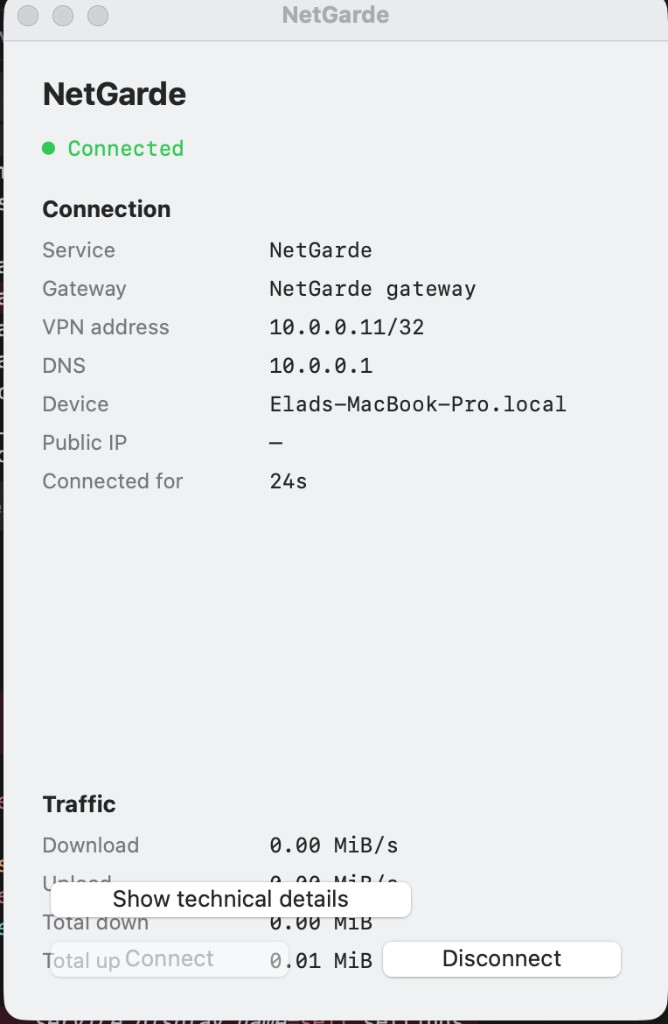
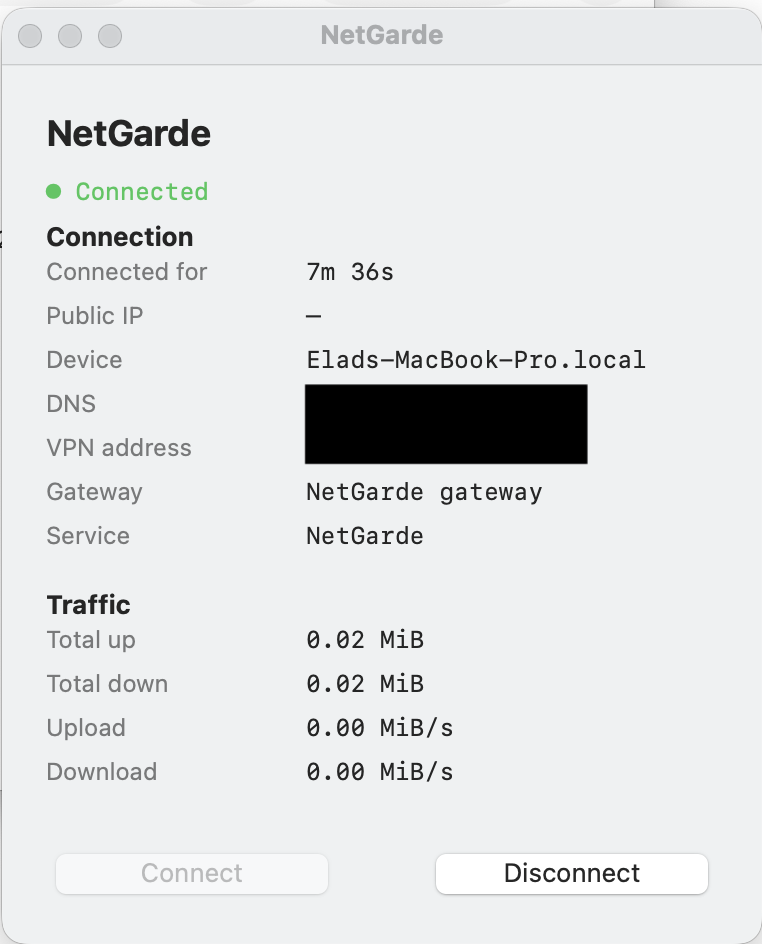
Rewrite README as portfolio presentation for job reviewers.
Add secure connect flow with Mermaid diagram; update redacted screenshot.

diff --git a/README.md b/README.md
@@ -1,173 +1,127 @@
-# NetGardeClient
+<p align="center">
+  <strong>NetGardeClient</strong><br/>
+  macOS WireGuard client &amp; menu bar app for the NetGarde zero-trust platform
+</p>
 
-**macOS WireGuard VPN client** for the [NetGarde](https://github.com/NetGarde) platform — API enrollment, TUN tunnel, DNS routing, usage reporting, and a menu bar app.
-
-**Organization:** [github.com/NetGarde](https://github.com/NetGarde) · **Platform:** [NetGarde](https://github.com/NetGarde/NetGarde) · **Client:** [NetGardeClient](https://github.com/NetGarde/NetGardeClient)
-
----
-
-## Overview
-
-NetGardeClient connects enrolled devices to the NetGarde control plane over **WireGuard**. It handles device identity at enroll time, applies server-assigned DNS policy routing, and reports tunnel usage back to the platform API.
-
-The macOS build ships as **`NetGarde.app`** — a menu bar app with connect/disconnect, live traffic stats, and a connection details panel. A cross-platform **CLI** (`netgarde-wg`) is also available for Linux and Windows.
-
-**Production API (default):** `http://44.218.45.174:8000` — same backend as the NetGarde dashboard. Override with `--api-url`, `NETGARDE_API_URL`, or GUI settings.
+<p align="center">
+  <a href="https://github.com/NetGarde">Organization</a> ·
+  <a href="https://github.com/NetGarde/NetGarde">Platform</a> ·
+  <a href="https://github.com/NetGarde/NetGardeClient">Client</a>
+</p>
 
 ---
 
-## Features
+## About
 
-| Capability | Implementation |
-|------------|----------------|
-| Secure enroll | `POST /v1/enroll` with device identity + WireGuard key exchange |
-| Tunnel | `wireguard-go` (macOS/Windows) or kernel WireGuard (Linux) |
-| DNS policy | Applies WireGuard DNS from server config (macOS system DNS) |
-| Usage reporting | Periodic `POST /v1/usage` for live dashboard charts |
-| macOS GUI | Menu bar app (PyInstaller), shield status icons, connection panel |
-| Offline mode | Manual `.conf` file without API enroll |
+**NetGardeClient** is the device-side companion to [NetGarde](https://github.com/NetGarde/NetGarde) — a self-hosted network security platform I built end to end (control plane, dashboard, policy engine, and AWS deployment).
+
+This repo is the **secure access layer**: enroll a device, establish a WireGuard tunnel, route DNS through the platform gateway, and report live usage back to the admin dashboard.
+
+**Deliverables**
+
+- **`NetGarde.app`** — native macOS menu bar application  
+- **`netgarde-wg`** — cross-platform CLI for Linux and Windows  
+- **Packaged build pipeline** — PyInstaller bundle + GitHub Actions  
 
 ---
 
 ## Screenshots
 
-> Replace `docs/images/connection-panel-connected.png` with a redacted copy (blur VPN/DNS IPs) before publishing if needed. See [docs/images/README.md](docs/images/README.md).
+<p align="center">
+  <img src="docs/images/connection-panel-connected.png" alt="NetGarde connection panel — connected state with live traffic" width="420" />
+</p>
 
-### macOS connection panel
-
-![Connected — live stats, VPN details, and disconnect](docs/images/connection-panel-connected.png)
-
----
-
-## Requirements
-
-- Python 3.9+
-- macOS, Linux, or Windows
-- Elevated privileges (`sudo` on macOS/Linux; Administrator on Windows)
-- Tunnel backend: `wireguard-go` on macOS/Windows, or `wg` + kernel WireGuard on Linux
+<p align="center"><em>Connection panel — status, session details, live traffic, connect / disconnect</em></p>
 
 ---
 
-## Quick start
+## What this project shows
 
-```bash
-git clone https://github.com/NetGarde/NetGardeClient.git
-cd NetGardeClient
-make install
-source .venv/bin/activate
-```
-
-**CLI enroll (production server):**
-
-```bash
-sudo netgarde-wg
-# with enroll bootstrap token (if ENROLL_BOOTSTRAP_TOKEN is set on the server):
-sudo netgarde-wg --api-token YOUR_TOKEN
-```
+| | |
+|---|---|
+| **Network security** | WireGuard VPN, device enrollment, DNS policy path through the gateway |
+| **Systems engineering** | TUN interfaces, routing, privileged macOS DNS and tunnel lifecycle |
+| **Product engineering** | Menu bar UX, connection panel, session handling, orphan cleanup |
+| **Full-stack integration** | Client ↔ control plane ↔ live dashboard telemetry |
+| **Shipping software** | PyInstaller macOS app, CI build, installable `.app` bundle |
 
 ---
 
-## macOS app
+## How secure connect works
 
-Build **`NetGarde.app`** (menu bar, production API built-in):
+When the user clicks **Connect**, the client runs a zero-trust enrollment flow — no pre-shared WireGuard config file required.
 
-```bash
-make build-mac
-open dist/NetGarde.app
+**1. Device identity & keys**  
+The client generates a **WireGuard key pair**. The **private key never leaves the device**. Only the **public key** is sent to the platform, together with a stable device identity (hostname, hardware id).
+
+**2. Enrollment**  
+The control plane validates the request, registers the device, assigns a VPN address from its pool, and tells the gateway to accept this peer.
+
+**3. Tunnel configuration**  
+The server returns everything the client needs: server public key, tunnel address, DNS gateway, and routing rules. The client builds the WireGuard session locally.
+
+**4. Connect**  
+The tunnel comes up (TUN interface + routes). DNS is pointed at the platform gateway so **policy applies to all lookups** — not just browser traffic.
+
+**5. Live visibility**  
+While connected, the client reports tunnel usage to the dashboard so operators see **live bandwidth** per device.
+
+```mermaid
+sequenceDiagram
+    autonumber
+    actor User
+    participant Client as NetGardeClient
+    participant API as Control plane
+    participant GW as WireGuard gateway
+    participant Dash as Dashboard
+
+    User->>Client: Connect
+    Client->>Client: Generate key pair (private key stays local)
+    Client->>API: Enroll device identity + public key
+    API->>API: Register device, assign VPN address
+    API->>GW: Authorize peer on gateway
+    API-->>Client: Server public key, tunnel config, DNS
+    Client->>Client: WireGuard tunnel + system DNS
+    loop While connected
+        Client->>API: Tunnel usage telemetry
+        API->>Dash: Live bandwidth per device
+    end
 ```
 
-Install permanently:
-
-```bash
-cp -R dist/NetGarde.app /Applications/
-```
-
-Double-click **NetGarde** in Applications → shield icon in menu bar → **Connect**.
-
-If macOS blocks the first launch: **right-click** `NetGarde.app` → **Open**.
-
-The app bundles `netgarde-wg`, `wireguard-go`, and the menu bar GUI. VPN still prompts for your admin password on Connect.
-
-**Development (without building `.app`):**
-
-```bash
-make install-gui
-make run-gui
-```
+> **Why this matters:** identity is established *before* access is granted; keys are asymmetric (no shared secret on the wire); policy enforcement stays on the infrastructure you control — the same principles as enterprise ZTNA, in a project you can demo end to end.
 
 ---
 
-## Enroll flow
+## How it fits in NetGarde
 
 ```
-NetGardeClient → POST /v1/enroll → NetGarde API → device + IP allocation
-              → wg-agent apply-peer → WireGuard config returned to client
-              → tunnel up → DNS via server → usage POST /v1/usage
+  Laptop / phone                    NetGarde platform
+  ─────────────                     ─────────────────
+  NetGardeClient  ── enroll ──►     API + device identity
+        │                           WireGuard gateway
+        ├── tunnel + DNS ──►        DNS policy (dnsmasq)
+        └── usage stats ──►         Live dashboard charts
 ```
 
-**Enroll API**
-
-- `POST {api-url}/v1/enroll` (override path with `--api-enroll-path`)
-- Body: `device_id`, `public_key`, optional `hostname`, `mac_address`
-- Response: WireGuard config fields or `wireguard_conf` INI, plus `device_token` for `/v1/usage`
-
-WireGuard DNS from enroll should be the server wg IP (e.g. `10.0.0.1`), not the AWS VPC resolver (`172.31.0.2`).
+Policy, blocking, quarantine, and monitoring live on the **server**. The client focuses on **connectivity and visibility** — the same split you see in enterprise ZTNA / SASE products.
 
 ---
 
-## Common flags
+## Built with
 
-| Flag | Meaning |
-|------|---------|
-| `--config` | WireGuard `.conf` (offline mode) |
-| `--api-url` | Override production API URL |
-| `--api-token` | Enroll bootstrap token (`ENROLL_BOOTSTRAP_TOKEN` on server) |
-| `--no-routing` | Skip system routes |
-| `--apply-dns` / `--no-apply-dns` | macOS DNS from config (on by default) |
-| `--stats-interval SEC` | Report tunnel traffic every SEC seconds |
-| `--install-policy-ca` | macOS: trust block-page CA from API |
+Python · WireGuard · wireguard-go · rumps · AppKit · PyInstaller · GitHub Actions
 
-Run `netgarde-wg --help` for all options.
-
-**Offline config:**
-
-```bash
-cp client.example.conf my.conf
-sudo netgarde-wg --config ./my.conf
-```
-
-**macOS policy CA** (one-time, for HTTPS block page):
-
-```bash
-sudo netgarde-wg --install-policy-ca
-```
+Backend & dashboard: [NetGarde platform →](https://github.com/NetGarde/NetGarde)
 
 ---
 
-## macOS: wireguard-go
+## Explore
 
-Bundled automatically by `make build-mac`, or install manually:
-
-```bash
-git clone https://git.zx2c4.com/wireguard-go
-cd wireguard-go && make && sudo cp wireguard-go /usr/local/bin/
-```
+| | |
+|---|---|
+| [NetGarde](https://github.com/NetGarde/NetGarde) | Platform — FastAPI, React, DNS policy, behavior analytics, AWS |
+| [NetGarde org](https://github.com/NetGarde) | Project home |
 
 ---
 
-## Platform documentation
-
-This repo is the **client only**. Backend, dashboard, DNS policy, and deployment live in the platform repo:
-
-| Document | Description |
-|----------|-------------|
-| [NetGarde README](https://github.com/NetGarde/NetGarde/blob/develop/README.md) | Platform overview and architecture |
-| [docs/README.md](https://github.com/NetGarde/NetGarde/blob/develop/docs/README.md) | Technical documentation index |
-| [docs/DESIGN.md](https://github.com/NetGarde/NetGarde/blob/develop/docs/DESIGN.md) | Design guide and domain model |
-| [docs/ENV_SETUP.md](https://github.com/NetGarde/NetGarde/blob/develop/docs/ENV_SETUP.md) | Server env vars (`ENROLL_BOOTSTRAP_TOKEN`, etc.) |
-
----
-
-## License
-
-Portfolio and educational use. See repository for terms.
+<p align="center"><sub>Portfolio & educational use</sub></p>